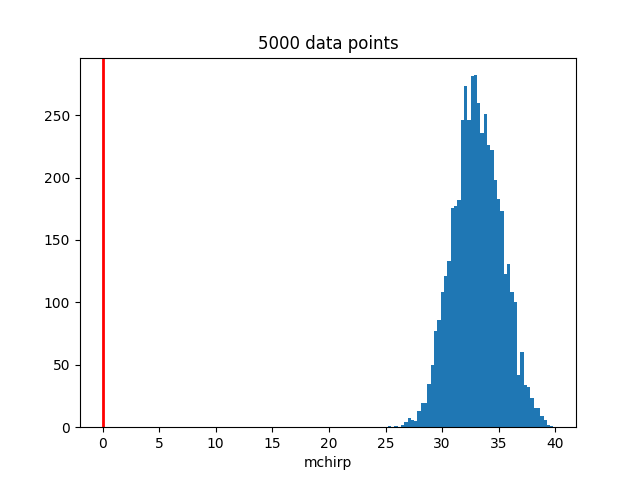
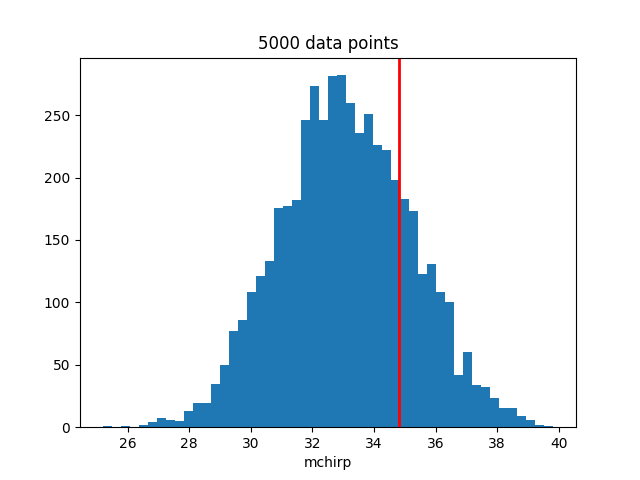
Fixed more bugs, added mchirp

diff --git a/Inference/ownPost.py b/Inference/ownPost.py
@@ -28,10 +28,12 @@ def chirpMass(mass1,mass2):
    denom=(mass1+mass2)**(0.2)
    return numer/denom
 
-if parameter=="mchrip":
+if parameter=="mchirp":
    injected_value=chirpMass(m1,m2)
+   print injected_value
 elif parameter=="q":
    injected_value=m1/m2
+   print injected_value
 
 #Take last iteration of each walker
 parameter_values=np.array([])
